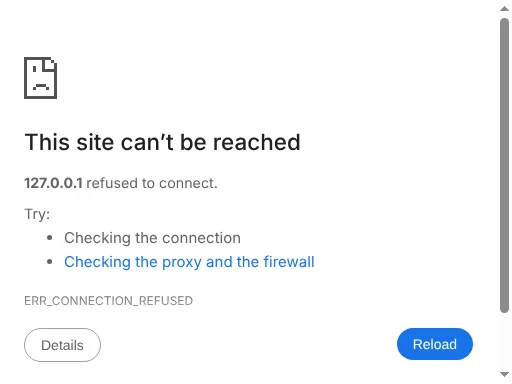
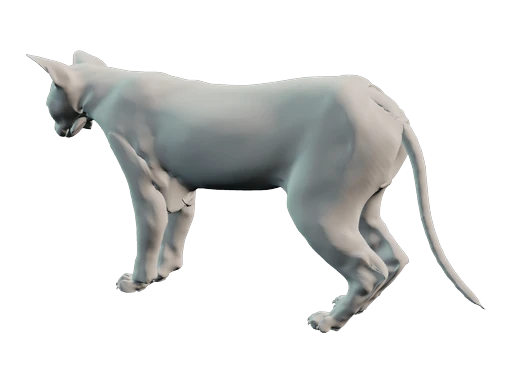
Corrige les empreintes de cache, la vignette du chat et la mise en page
Empreintes de cache — la cause des défauts visibles
Les pages portaient des empreintes écrites à la main. Modifier un module sans
penser à changer la chaîne laissait les navigateurs servir l'ancienne version.
C'est ce qui se produisait pour src/r05_clinical.mjs : le correctif supprimant
le corps provisoire et colorant les organes était publié, mais les visiteurs
continuaient de voir l'anatomie d'avant. Quarante-neuf références étaient
périmées sur les huit pages.
- scripts/stamp_assets.mjs dérive l'empreinte du contenu du fichier. Toute
  modification la change, aucune ne peut l'oublier.
- Un test refuse toute empreinte périmée et un autre vérifie que le système de
  design est chargé avant les feuilles qui consomment ses variables.

Vignette du chat
Le fichier livré était la capture d'une page d'erreur de navigateur : ma
conversion du SVG avait échoué et je ne l'avais pas regardée. La vignette est
désormais rendue depuis le modèle 3D félin lui-même, dans la même orientation
et le même cadrage que le chien, donc dérivée des données réelles plutôt que
dessinée. Un test vérifie que chaque vignette est détourée, ce qui distingue une
illustration d'une capture opaque.

Mise en page de l'explorateur
La page confinait son contenu à un tiers de la largeur et l'outil commençait au
bas du premier écran, derrière un titre de trois lignes et un avertissement de
portée. L'explorateur est maintenant en deux volets : réglages à gauche, qui
[…]

diff --git a/exposures.html b/exposures.html
@@ -5,48 +5,58 @@
 <meta name="viewport" content="width=device-width,initial-scale=1">
 <title>Explorateur d'expositions documentées — PRMR Virtual Lab</title>
 <meta name="description" content="Pour une substance, une dose et une durée, les repères réellement publiés : seuils officiels, doses toxiques établies, associations observées, et l'endroit où les données s'arrêtent.">
-<link rel="stylesheet" href="./prmr-design-system.css?v=r13-20261118">
-<link rel="stylesheet" href="./prmr-route.css?v=r13-20261118">
+<link rel="stylesheet" href="./prmr-design-system.css?v=3e85eb3a76">
+<link rel="stylesheet" href="./prmr-route.css?v=5894fb13db">
 <style>
-main{max-width:1180px;margin:auto;padding:var(--prmr-space-6) clamp(15px,3vw,42px) var(--prmr-space-7)}
-.kicker{font-size:var(--prmr-size-small);color:var(--prmr-text-muted);font-weight:600}
-main h1{margin:var(--prmr-space-4) 0;max-width:22ch}
-main h1 span{color:var(--prmr-signal)}
+main{max-width:1500px;margin:auto;padding:var(--prmr-space-5) clamp(15px,3vw,36px) var(--prmr-space-7)}
+.kicker{font-size:var(--prmr-size-small);color:var(--prmr-text-muted);font-weight:600;margin:0}
+.r13-head{max-width:var(--prmr-measure)}
+.r13-head h1{margin:var(--prmr-space-2) 0 var(--prmr-space-3);font-size:clamp(23px,2.4vw,31px)}
+.r13-head h1 span{color:var(--prmr-signal)}
+.lead{color:var(--prmr-text-muted);line-height:1.6;margin:0 0 var(--prmr-space-3)}
+/* L'avertissement de portée se lit une fois, puis se replie : il occupait un
+   tiers du premier écran devant l'outil qu'il commente. */
+.r13-scope{border-left:3px dashed var(--prmr-hypothesis);border-top:0;border-right:0;border-bottom:0;background:var(--prmr-hypothesis-bg);border-radius:0 var(--prmr-radius-control) var(--prmr-radius-control) 0;margin:0 0 var(--prmr-space-5)}
+.r13-scope summary{color:var(--prmr-hypothesis)}
+.r13-scope p{color:var(--prmr-text);font-size:var(--prmr-size-small);line-height:1.7;max-width:var(--prmr-measure)}
 main h2{margin:0 0 var(--prmr-space-3)}
-main h3{font-size:var(--prmr-size-body);margin:var(--prmr-space-5) 0 var(--prmr-space-3);color:var(--prmr-text-muted)}
-.lead{max-width:var(--prmr-measure);color:var(--prmr-text-muted);line-height:1.7;font-size:var(--prmr-size-lead)}
-main section{margin-top:var(--prmr-space-7)}
-main p,main li{color:var(--prmr-text-muted);line-height:1.75}
-/* Avertissement de portée : tireté, comme toute construction exploratoire. */
-.scope{border-left:3px dashed var(--prmr-hypothesis);background:var(--prmr-hypothesis-bg);color:var(--prmr-text);padding:var(--prmr-space-4);border-radius:0 var(--prmr-radius-control) var(--prmr-radius-control) 0;font-size:var(--prmr-size-small);line-height:1.75;margin:var(--prmr-space-5) 0;max-width:var(--prmr-measure)}
-.scope p{color:inherit}
-.r13-controls{display:grid;grid-template-columns:repeat(4,minmax(0,1fr));gap:var(--prmr-space-4);background:var(--prmr-surface);border:1px solid var(--prmr-line);border-radius:var(--prmr-radius-panel);padding:var(--prmr-space-5)}
+main h3{font-size:var(--prmr-size-small);margin:var(--prmr-space-5) 0 var(--prmr-space-3);color:var(--prmr-text-muted);text-transform:none}
+main section{margin-top:var(--prmr-space-6)}
+main p,main li{color:var(--prmr-text-muted);line-height:1.7}
+/* Deux volets : les réglages à gauche, qui restent sous les yeux pendant qu'on
+   lit les repères à droite. La page n'utilisait qu'un tiers de sa largeur. */
+.r13-workspace{margin-top:var(--prmr-space-4)}
+.r13-layout{display:grid;grid-template-columns:330px minmax(0,1fr);gap:var(--prmr-space-5);align-items:start}
+.r13-controls{display:flex;flex-direction:column;gap:var(--prmr-space-4);background:var(--prmr-surface);border:1px solid var(--prmr-line);border-radius:var(--prmr-radius-panel);padding:var(--prmr-space-5);position:sticky;top:var(--prmr-space-3)}
 .r13-field{display:flex;flex-direction:column;gap:var(--prmr-space-2);min-width:0}
 .r13-field input[type=range]{width:100%;accent-color:var(--prmr-signal)}
 .r13-value{font-size:var(--prmr-size-lead);font-weight:700;color:var(--prmr-text);font-variant-numeric:tabular-nums}
-.r13-summary{margin:var(--prmr-space-5) 0}
+.r13-results{min-width:0}
+.r13-summary{margin:0 0 var(--prmr-space-4)}
 .r13-summary-head{display:flex;align-items:baseline;gap:var(--prmr-space-3);flex-wrap:wrap;margin-bottom:var(--prmr-space-2)}
 .r13-summary-head strong{font-size:var(--prmr-size-h3)}
 .r13-finding-head{display:flex;align-items:center;gap:var(--prmr-space-3);flex-wrap:wrap;margin-bottom:var(--prmr-space-2)}
+.r13-findings .prmr-evidence p{font-size:var(--prmr-size-small)}
 /* Un repère non atteint est montré en retrait : il existe, il n'est pas franchi. */
-.r13-not-crossed{opacity:.62}
-@media(max-width:900px){.r13-controls{grid-template-columns:repeat(2,minmax(0,1fr))}}
-@media(max-width:560px){.r13-controls{grid-template-columns:1fr}}
+.r13-not-crossed{opacity:.6}
+@media(max-width:1020px){.r13-layout{grid-template-columns:1fr}.r13-controls{position:static}}
 </style>
 </head>
 <body>
 <main>
- <p class="kicker">Explorateur d'expositions / Repères publiés uniquement</p>
- <h1>Quelle dose, pendant combien de temps, <span>et que dit vraiment la littérature ?</span></h1>
- <p class="lead">Choisissez une substance, une dose journalière et une durée. L'explorateur affiche les repères réellement publiés que ce régime franchit, les organes qu'ils concernent, et l'endroit précis où les données s'arrêtent.</p>
+ <header class="r13-head">
+  <p class="kicker">Explorateur d'expositions · repères publiés uniquement</p>
+  <h1>Quelle dose, pendant combien de temps, <span>et que dit la littérature ?</span></h1>
+  <p class="lead">Les repères réellement publiés que votre réglage franchit, les organes qu'ils concernent, et l'endroit où les données s'arrêtent.</p>
+  <details class="r13-scope">
+   <summary>Ce que cet outil ne fait pas — à lire une fois</summary>
+   <p>Il ne calcule pas l'état de votre foie ou de vos reins au bout d'un an. Aucun modèle validé ne prédit l'atteinte d'un organe chez une personne donnée à partir d'une dose et d'une durée. Un curseur qui annoncerait « foie : 23 % d'atteinte à deux ans » inventerait une précision, et le soin apporté à l'affichage la rendrait d'autant plus crédible.</p>
+   <p>Le curseur de durée sert donc à l'inverse : il montre jusqu'où vont les études, puis dit franchement qu'au-delà rien n'est documenté. Pour toute décision concernant une personne réelle, c'est un médecin ou un pharmacien qui décide, pas cette page.</p>
+  </details>
+ </header>
 
- <div class="scope">
-  <p><strong>Ce que cet outil ne fait pas.</strong> Il ne calcule pas l'état de votre foie ou de vos reins au bout d'un an. Aucun modèle validé ne prédit l'atteinte d'un organe chez une personne donnée à partir d'une dose et d'une durée. Un curseur qui annoncerait « foie : 23 % d'atteinte à deux ans » inventerait une précision, et le soin apporté à l'affichage la rendrait d'autant plus crédible.</p>
-  <p>Le curseur de durée sert donc à l'inverse : il montre jusqu'où vont les études, puis dit franchement qu'au-delà rien n'est documenté. Pour toute décision concernant une personne réelle, c'est un médecin ou un pharmacien qui décide, pas cette page.</p>
- </div>
-
- <section aria-labelledby="explorer-heading" data-prmr-tab="montre">
-  <h2 id="explorer-heading">Explorateur</h2>
+ <section class="r13-workspace" aria-labelledby="explorer-heading">
+  <h2 id="explorer-heading" class="prmr-visually-hidden">Explorateur d'expositions</h2>
   <div id="r13-explorer"></div>
  </section>
 
@@ -81,7 +91,7 @@ main p,main li{color:var(--prmr-text-muted);line-height:1.75}
 import {mountExposureExplorer} from "./src/r13_exposures.mjs?v=r13-20261118";
 mountExposureExplorer("r13-explorer");
 </script>
-<script type="module" src="./src/prmr_route.mjs?v=r13-20261118"></script>
-<script type="module" src="./src/prmr_tabs.mjs?v=r13-20261118"></script>
+<script type="module" src="./src/prmr_route.mjs?v=36f175ac29"></script>
+<script type="module" src="./src/prmr_tabs.mjs?v=91ccf64223"></script>
 </body>
 </html>

diff --git a/species-r04.html b/species-r04.html
@@ -3,26 +3,26 @@
 <meta charset="utf-8"><meta name="viewport" content="width=device-width, initial-scale=1">
 <meta name="theme-color" content="#071421">
 <meta name="description" content="PRMR R09 : maillages anatomiques 3D rotatifs indépendants, organes d'origine CT canine et exploration anatomique canine, données précliniques exploratoires et molécules RDKit.">
-<title>Anatomie comparée 3D — six espèces et organes internes | PRMR phase 02</title>
-<link rel="stylesheet" href="./prmr-design-system.css?v=r12-20261117">
-<link rel="stylesheet" href="./r04.css">
-<link rel="stylesheet" href="./r04-atlas.css?v=r12-20261117">
-<script type="module" src="./src/r04_app.mjs?v=r12-20261117"></script>
-<link rel="stylesheet" href="./prmr-route.css?v=r12-20261117">
+<title>Anatomie comparée 3D — chien et chat, organes issus de CT | PRMR phase 02</title>
+<link rel="stylesheet" href="./prmr-design-system.css?v=3e85eb3a76">
+<link rel="stylesheet" href="./r04.css?v=38c2581b53">
+<link rel="stylesheet" href="./r04-atlas.css?v=eb56269b53">
+<script type="module" src="./src/r04_app.mjs?v=4523d62d0e"></script>
+<link rel="stylesheet" href="./prmr-route.css?v=5894fb13db">
 <script type="module">
 import {mountProvenancePanel} from "./src/r12_provenance_panel.mjs?v=r12-20261117";
 mountProvenancePanel("r12-provenance");
 </script>
-<script type="module" src="./src/prmr_route.mjs?v=r12-20261117"></script>
-<script type="module" src="./src/prmr_tabs.mjs?v=r13-20261118"></script>
+<script type="module" src="./src/prmr_route.mjs?v=36f175ac29"></script>
+<script type="module" src="./src/prmr_tabs.mjs?v=91ccf64223"></script>
 </head><body>
 <div class="r4-shell">
 
 <main>
 <div class="r4-head">
  <div><div class="r4-eye">Phase 02 du parcours / Anatomie comparée / modules R04 et R09</div>
- <h1>Six espèces. <span>Organes internes en 3D rotative.</span></h1>
- <p>Un véritable poste d’exploration : animal transparent en grille 3D, organes internes mis en évidence (reins, cœur, foie, poumons), molécules orientables en 3D et graphiques dynamiques. Le choix de l'animal et son état physiologique influencent les <strong>hypothèses de pharmacocinétique et de pharmacodynamie</strong>. Les structures moléculaires 3D sont générées depuis des conformères RDKit. Le chien dispose d’un atlas 3D de surfaces issues partiellement de CT vétérinaires, modifiées et créditées. Les cinq autres espèces reposent sur des maillages procéduraux construits par le laboratoire : ce sont des hypothèses anatomiques pédagogiques, ni scans ni segmentations validées.</p></div>
+ <h1>Chien et chat. <span>Organes internes issus de scanners.</span></h1>
+ <p>Un véritable poste d’exploration : animal transparent en grille 3D, organes internes mis en évidence (reins, cœur, foie, poumons), molécules orientables en 3D et graphiques dynamiques. Le choix de l'animal et son état physiologique influencent les <strong>hypothèses de pharmacocinétique et de pharmacodynamie</strong>. Les structures moléculaires 3D sont générées depuis des conformères RDKit. Chien et chat disposent l’un et l’autre d’un atlas 3D de surfaces issues de CT vétérinaires, modifiées et créditées. Les espèces sans anatomie réellement acquise ont été retirées : l’origine de chaque organe est détaillée dans la rubrique « La méthode ».</p></div>
  <svg class="r4-head-icon" viewBox="0 0 160 100" role="img" aria-label="Schéma des deux reins"><defs><linearGradient id="kidGlow"><stop stop-color="#6dfbdc"/><stop offset="1" stop-color="#159cae"/></linearGradient></defs>
   <path d="M61 8 C25 0 12 24 15 51 C17 78 44 91 59 74 C72 56 46 52 48 39 C50 29 69 23 61 8 Z" fill="#12647e77" stroke="url(#kidGlow)" stroke-width="3"/>
   <path d="M99 8 C135 0 148 24 145 51 C143 78 116 91 101 74 C88 56 114 52 112 39 C110 29 91 23 99 8 Z" fill="#12647e77" stroke="url(#kidGlow)" stroke-width="3"/>
@@ -31,7 +31,7 @@ mountProvenancePanel("r12-provenance");
  </svg>
 </div>
 <div class="r4-kpis" aria-label="Résumé de la recherche R04">
- <div class="r4-kpi"><small>Espèces accessibles</small><b>6 espèces</b><em>Chien : surfaces CT modifiées · 5 autres : maillages procéduraux</em></div>
+ <div class="r4-kpi"><small>Espèces accessibles</small><b>2 espèces</b><em>Chien et chat · surfaces issues de CT vétérinaires</em></div>
  <div class="r4-kpi"><small>Protocoles R02 comparés</small><b>3 régimes</b><em>Doublet, R02-A, R02-B</em></div>
  <div class="r4-kpi"><small>Modèles moléculaires</small><b>4 conformères</b><em>Coordonnées 3D RDKit</em></div>
  <div class="r4-kpi"><small>État de la recherche</small><b>In silico</b><em>Calculs reproductibles, non expérimentaux</em></div>
@@ -137,7 +137,7 @@ mountProvenancePanel("r12-provenance");
    <a href="./screening.html">R02 : 165 combinaisons</a>
    <a href="./risk-r03.html">R03 : analyse de référence</a>
    <a href="./research-data/r04_molecular_3d.json">Conformères RDKit JSON</a>
-   <a href="./src/r04_engine.mjs">Code du modèle</a>
+   <a href="./src/r04_engine.mjs?v=e8ad08368a">Code du modèle</a>
    <a href="https://github.com/Aqmar3070/prmr-virtual-lab/blob/main/docs/PRMR_R04_RESEARCH_LOG.md" target="_blank" rel="noopener noreferrer">Journal R04</a>
   </div>
  </section>

diff --git a/risk-r03.html b/risk-r03.html
@@ -3,9 +3,9 @@
 <head><meta charset="utf-8"><meta name="viewport" content="width=device-width,initial-scale=1">
 <meta name="theme-color" content="#09111e"><title>PRMR-R03 | Stress-test PK/PD et risque–bénéfice animal</title>
 <meta name="description" content="Analyse computationnelle exploratoire de l'exposition rénale et hépatique, souris et rat, masse, maladie et hydratation. Aucune probabilité de toxicité inventée.">
-<link rel="stylesheet" href="./prmr-design-system.css?v=r12-20261117">
-<link rel="stylesheet" href="./laboratory.css">
-<link rel="stylesheet" href="./r04-atlas.css?v=r12-20261117">
+<link rel="stylesheet" href="./prmr-design-system.css?v=3e85eb3a76">
+<link rel="stylesheet" href="./laboratory.css?v=97e0d68df6">
+<link rel="stylesheet" href="./r04-atlas.css?v=eb56269b53">
 <style>
 /* Styles propres à la phase 04. Palette, typographie, tableaux, statuts et
    contrôles viennent de prmr-design-system.css.
@@ -62,10 +62,10 @@ main li{line-height:1.75;color:var(--prmr-text-muted);font-size:var(--prmr-size-
 main details{border:0;border-top:1px solid var(--prmr-line-soft);border-radius:0;background:none;padding:var(--prmr-space-4) 0}
 @media(max-width:920px){.selectors{grid-template-columns:repeat(2,minmax(0,1fr))}.kpis,.grid3{grid-template-columns:repeat(2,minmax(0,1fr))}}
 @media(max-width:600px){.selectors,.kpis,.grid2,.grid3,.ratiogrid{grid-template-columns:1fr}.panel{padding:var(--prmr-space-4)}}
-</style><script type="module" src="./src/r04_embedded.mjs?v=r12-20261117"></script>
-<link rel="stylesheet" href="./prmr-route.css?v=r12-20261117">
-<script type="module" src="./src/prmr_route.mjs?v=r12-20261117"></script>
-<script type="module" src="./src/prmr_tabs.mjs?v=r13-20261118"></script>
+</style><script type="module" src="./src/r04_embedded.mjs?v=7f86716bca"></script>
+<link rel="stylesheet" href="./prmr-route.css?v=5894fb13db">
+<script type="module" src="./src/prmr_route.mjs?v=36f175ac29"></script>
+<script type="module" src="./src/prmr_tabs.mjs?v=91ccf64223"></script>
 </head>
 <body>
 <main>
@@ -73,7 +73,7 @@ main details{border:0;border-top:1px solid var(--prmr-line-soft);border-radius:0
 <div class="kicker">PRMR-R03 · Physiologie comparée · Analyse computationnelle / 16 novembre 2026</div>
 <h1>Risque rénal, hépatique et <span>bénéfice potentiel.</span></h1>
 <p class="lead">Stress-test quantitatif de l'exposition de trois associations issues de PRMR-R02 chez des analogues de souris et de rats de différentes masses et différents états physiologiques. Il compare les signaux de pharmacocinétique et les mécanismes possibles, sans inventer de toxicités, de guérison ni de nouvelles observations animales.</p>
-<p class="lead"><a href="./species-r04.html">Ouvrir l'anatomie comparée 3D des six espèces</a></p>
+<p class="lead"><a href="./species-r04.html">Ouvrir l'anatomie comparée 3D du chien et du chat</a></p>
 <div class="note"><strong>Frontière scientifique essentielle :</strong> les chiffres d'exposition proviennent de données <strong>humaines</strong>, puis sont soumis à une extrapolation de sensibilité <strong>arbitraire</strong> vers des profils animaux. Les pourcentages calculés ne sont PAS des probabilités de lésions rénales, d'hépatotoxicité, de guérison ou d'efficacité. Il manque des courbes dose–réponse et des concentrations tissulaires validées des combinaisons.</div>
 <div class="kpis">
  <div class="kpi"><small>Espèces animales de référence</small><b>2</b><small>Souris et rats, analogues hypothétiques</small></div>
@@ -194,7 +194,7 @@ main details{border:0;border-top:1px solid var(--prmr-line-soft);border-radius:0
 <li><a href="https://journals.sagepub.com/doi/full/10.1177/1091581813505331" target="_blank" rel="noopener noreferrer">Dapagliflozine — pharmacodynamie SGLT2 chez la souris et le rat</a></li>
 <li><a href="https://pmc.ncbi.nlm.nih.gov/articles/PMC11782306/" target="_blank" rel="noopener noreferrer">Échelle allométrique : limites de la loi 0,75</a></li>
 <li><a href="https://pmc.ncbi.nlm.nih.gov/articles/PMC7610906/" target="_blank" rel="noopener noreferrer">ARRIVE 2.0 — standards expérimentaux pour des études animales</a></li>
-<li><a href="./src/r03_model.mjs" target="_blank" rel="noopener noreferrer">Moteur numérique R03 et hypothèses explicites</a></li>
+<li><a href="./src/r03_model.mjs?v=5e6a336fca" target="_blank" rel="noopener noreferrer">Moteur numérique R03 et hypothèses explicites</a></li>
 <li><a href="https://github.com/Aqmar3070/prmr-virtual-lab/blob/main/docs/PRMR_R03_RESEARCH_LOG.md" target="_blank" rel="noopener noreferrer">Journal PRMR-R03 et critères de validation biologique</a></li>
 </ul>
 </section>

diff --git a/preclinical.html b/preclinical.html
@@ -6,8 +6,8 @@
 <meta name="theme-color" content="#09111e">
 <meta name="description" content="PRMR-R01 : revue de trois études précliniques publiées sur les associations de molécules et la protection rénale chez les rongeurs, avec traçabilité des sources et vulgarisation.">
 <title>PRMR-R01 | Recherche préclinique rénale</title>
-<link rel="stylesheet" href="./prmr-design-system.css?v=r12-20261117">
-<link rel="stylesheet" href="./laboratory.css">
+<link rel="stylesheet" href="./prmr-design-system.css?v=3e85eb3a76">
+<link rel="stylesheet" href="./laboratory.css?v=97e0d68df6">
 <style>
 /* Styles propres à la phase 01. Palette, typographie, tableaux, statuts et
    contrôles viennent de prmr-design-system.css. Les classes de cette page sont
@@ -77,11 +77,11 @@
 @media(max-width:500px){.rgrid,.rstat,.rmethod{grid-template-columns:1fr}.rstudy{padding:var(--prmr-space-4)}.rsection{margin-top:var(--prmr-space-6)}}
 @media print{.rwrap{max-width:100%}.rbtn{display:none!important}.rstudy,.rmetric,.rstep,.rsimple{background:#fff;color:#000;border-color:#bbb}.rstudy p,.rstep p,.rsimple p,.rsimple li{color:#333}details{display:block}}
 </style>
-<link rel="stylesheet" href="./r04-atlas.css?v=r12-20261117">
-<script type="module" src="./src/r04_embedded.mjs?v=r12-20261117"></script>
-<link rel="stylesheet" href="./prmr-route.css?v=r12-20261117">
-<script type="module" src="./src/prmr_route.mjs?v=r12-20261117"></script>
-<script type="module" src="./src/prmr_tabs.mjs?v=r13-20261118"></script>
+<link rel="stylesheet" href="./r04-atlas.css?v=eb56269b53">
+<script type="module" src="./src/r04_embedded.mjs?v=7f86716bca"></script>
+<link rel="stylesheet" href="./prmr-route.css?v=5894fb13db">
+<script type="module" src="./src/prmr_route.mjs?v=36f175ac29"></script>
+<script type="module" src="./src/prmr_tabs.mjs?v=91ccf64223"></script>
 </head>
 <body>
 <div class="rwrap">

diff --git a/screening.html b/screening.html
@@ -5,8 +5,8 @@
 <meta name="theme-color" content="#09111e">
 <meta name="description" content="PRMR-R02 : calcul original RDKit sur 10 molécules existantes et 165 associations précliniques in silico. Résultats, filtres, méthodes, incertitudes et hypothèses.">
 <title>PRMR-R02 | Criblage original de molécules</title>
-<link rel="stylesheet" href="./prmr-design-system.css?v=r12-20261117">
-<link rel="stylesheet" href="./laboratory.css">
+<link rel="stylesheet" href="./prmr-design-system.css?v=3e85eb3a76">
+<link rel="stylesheet" href="./laboratory.css?v=97e0d68df6">
 <style>
 /* Styles propres à PRMR-R02. Palette, typographie, tableaux, statuts et
    contrôles viennent de prmr-design-system.css : cette page ne redéfinit
@@ -78,11 +78,11 @@ details{padding:var(--prmr-space-4) 0;border:0;border-bottom:1px solid var(--prm
 @media(max-width:850px){.stats,.steps{grid-template-columns:repeat(2,1fr)}}
 @media(max-width:620px){.twocol,.stats,.steps{grid-template-columns:1fr}.panelx{padding:var(--prmr-space-4)}.rfield{max-width:100%;width:100%}.controls{align-items:stretch}}
 </style>
-<link rel="stylesheet" href="./r04-atlas.css?v=r10-canine-only-20261117">
-<script type="module" src="./src/r04_embedded.mjs?v=r10-canine-only-20261117"></script>
-<link rel="stylesheet" href="./prmr-route.css?v=r11-20261117">
-<script type="module" src="./src/prmr_route.mjs?v=r11-20261117"></script>
-<script type="module" src="./src/prmr_tabs.mjs?v=r13-20261118"></script>
+<link rel="stylesheet" href="./r04-atlas.css?v=eb56269b53">
+<script type="module" src="./src/r04_embedded.mjs?v=7f86716bca"></script>
+<link rel="stylesheet" href="./prmr-route.css?v=5894fb13db">
+<script type="module" src="./src/prmr_route.mjs?v=36f175ac29"></script>
+<script type="module" src="./src/prmr_tabs.mjs?v=91ccf64223"></script>
 </head>
 <body>
 <div id="app">

diff --git a/clinical.html b/clinical.html
@@ -56,12 +56,12 @@ html{scroll-behavior:smooth}
 @media(max-width:900px){.grid,.evidence,.stepgrid{grid-template-columns:1fr}.metrics{grid-template-columns:1fr 1fr}.viewer{height:510px;min-height:400px}}
 @media(max-width:520px){.metrics,.organs{grid-template-columns:1fr}.viewer{height:440px}.wrap{width:calc(100% - 24px)}}
 </style>
-<script type="module" src="./src/r05_clinical.mjs?v=r12-20261117"></script>
-<script type="module" src="./src/r07_nephron.mjs?v=r12-20261117"></script>
-<link rel="stylesheet" href="./prmr-design-system.css?v=r12-20261117">
-<link rel="stylesheet" href="./prmr-route.css?v=r12-20261117">
-<script type="module" src="./src/prmr_route.mjs?v=r12-20261117"></script>
-<script type="module" src="./src/prmr_tabs.mjs?v=r13-20261118"></script>
+<script type="module" src="./src/r05_clinical.mjs?v=a92eab2cfb"></script>
+<script type="module" src="./src/r07_nephron.mjs?v=571c1042b0"></script>
+<link rel="stylesheet" href="./prmr-design-system.css?v=3e85eb3a76">
+<link rel="stylesheet" href="./prmr-route.css?v=5894fb13db">
+<script type="module" src="./src/prmr_route.mjs?v=36f175ac29"></script>
+<script type="module" src="./src/prmr_tabs.mjs?v=91ccf64223"></script>
 </head><body>
 <main class="wrap">
 <nav class="prmr-clinical-index" aria-label="Plan de la phase 5" style="display:flex;gap:8px;flex-wrap:wrap;margin:18px 0 22px;padding:13px 0;border-bottom:1px solid #355365">

diff --git a/research.html b/research.html
@@ -5,13 +5,13 @@
 <meta name="theme-color" content="#07121f">
 <meta name="description" content="PRMR Virtual Lab : chimie moléculaire RDKit, explorateur de données PubChem/ChEMBL et modèles PK/PD exploratoires.">
 <title>PRMR Virtual Lab | Research Workspace 2.0</title>
-<link rel="stylesheet" href="./prmr-design-system.css?v=r12-20261117">
-<link rel="stylesheet" href="./prmr-route.css?v=r12-20261117">
-<script type="module" src="./src/prmr_route.mjs?v=r12-20261117"></script>
+<link rel="stylesheet" href="./prmr-design-system.css?v=3e85eb3a76">
+<link rel="stylesheet" href="./prmr-route.css?v=5894fb13db">
+<script type="module" src="./src/prmr_route.mjs?v=36f175ac29"></script>
 <link rel="stylesheet" href="laboratory.css">
 <link rel="stylesheet" href="r04-atlas.css?v=r12-20261117">
-<script type="module" src="./src/r04_embedded.mjs?v=r12-20261117"></script>
-<script type="module" src="./src/r04_molecule_deck.mjs?v=r12-20261117"></script>
+<script type="module" src="./src/r04_embedded.mjs?v=7f86716bca"></script>
+<script type="module" src="./src/r04_molecule_deck.mjs?v=0737c936df"></script>
 <script defer src="https://unpkg.com/@rdkit/rdkit@2026.9.2/dist/RDKit_minimal.js"></script>
 <script type="module" src="src/lab.mjs"></script>
 </head>

diff --git a/index.html b/index.html
@@ -5,14 +5,14 @@
 <meta name="theme-color" content="#07121f">
 <meta name="description" content="PRMR Virtual Lab : chimie moléculaire RDKit, explorateur de données PubChem/ChEMBL et modèles PK/PD exploratoires.">
 <title>PRMR Virtual Lab | Research Workspace 2.0</title>
-<link rel="stylesheet" href="./prmr-design-system.css?v=r12-20261117">
+<link rel="stylesheet" href="./prmr-design-system.css?v=3e85eb3a76">
 <link rel="stylesheet" href="laboratory.css">
 <link rel="stylesheet" href="r04-atlas.css?v=r12-20261117">
-<script type="module" src="./src/r04_molecule_deck.mjs?v=r12-20261117"></script>
+<script type="module" src="./src/r04_molecule_deck.mjs?v=0737c936df"></script>
 <script defer src="https://unpkg.com/@rdkit/rdkit@2026.9.2/dist/RDKit_minimal.js"></script>
 <script type="module" src="src/lab.mjs"></script>
-<link rel="stylesheet" href="./prmr-route.css?v=r12-20261117">
-<script type="module" src="./src/prmr_route.mjs?v=r12-20261117"></script>
+<link rel="stylesheet" href="./prmr-route.css?v=5894fb13db">
+<script type="module" src="./src/prmr_route.mjs?v=36f175ac29"></script>
 </head>
 <body>
 <div class="shell">
